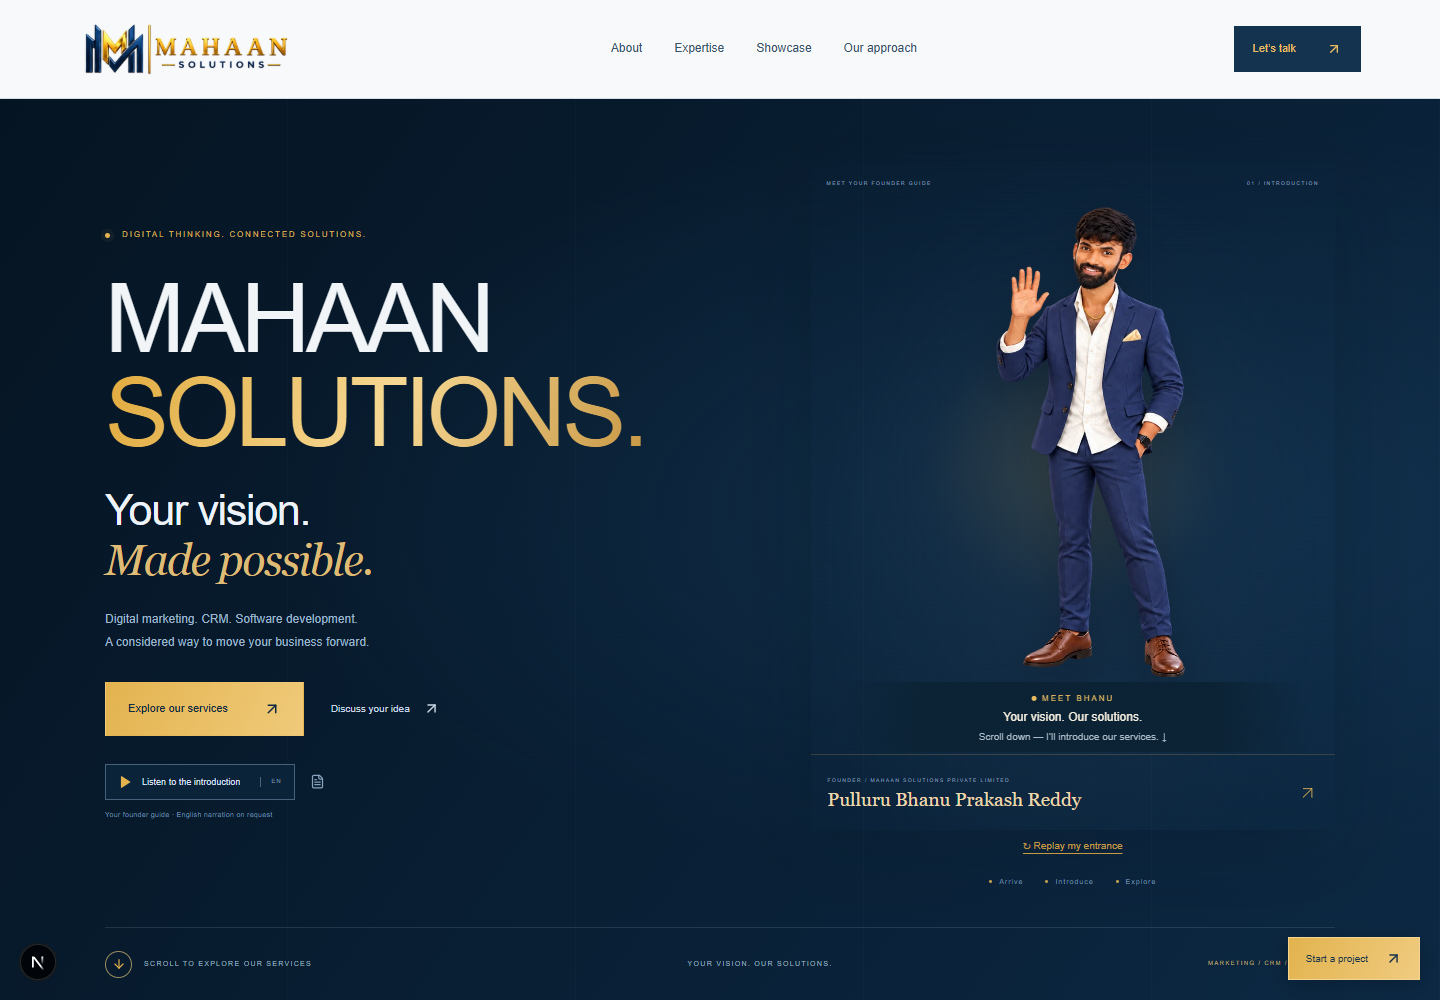
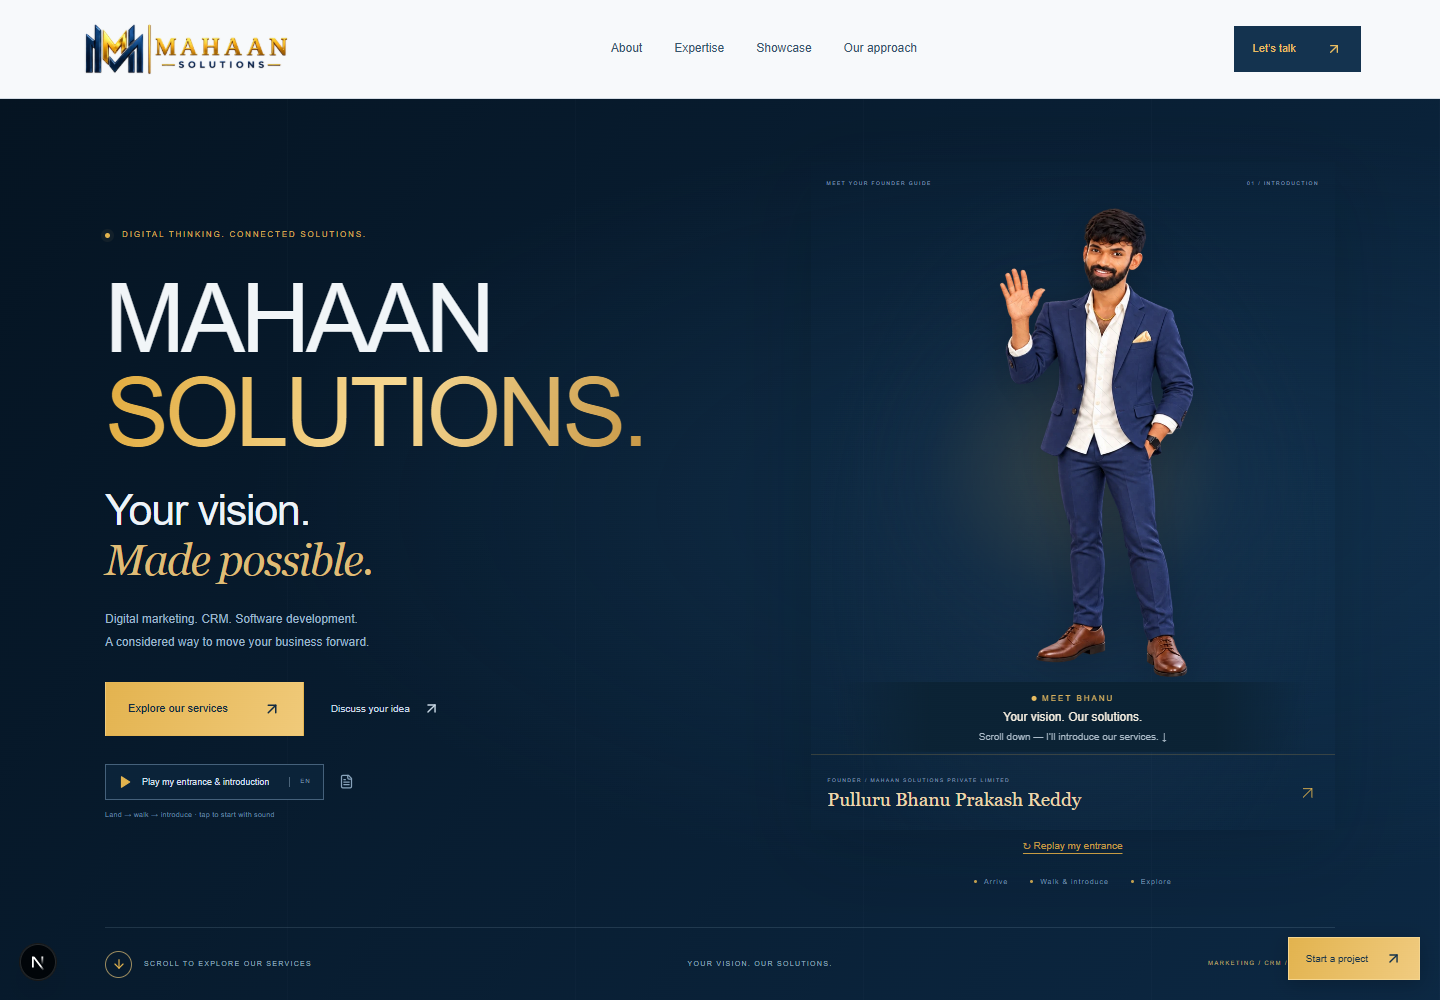
Update Site source

diff --git a/src/styles/brand-v3.css b/src/styles/brand-v3.css
@@ -15,3 +15,5 @@
 .founder-presenter{z-index:12;pointer-events:none;isolation:isolate}.presenter-arrival{position:absolute;inset:0;animation:presenter-arrive 1.25s cubic-bezier(.16,1,.3,1) both}.presenter-art{position:absolute;inset:0 0 54px;animation:presenter-breathe 6s ease-in-out infinite;transform-origin:50% 100%}.founder-presenter .presenter-pose{position:absolute;inset:0;width:100%;height:100%;object-fit:contain;object-position:center bottom;opacity:0;transform:translateY(7px) scale(.985);transition:opacity .45s,transform .7s;filter:drop-shadow(0 12px 22px #0005)}.founder-presenter .presenter-pose.is-active{opacity:1;transform:translateY(0) scale(1)}.presenter-aura{position:absolute;inset:8% 4% 12%;border-radius:50%;background:radial-gradient(ellipse,#b8862c24,transparent 65%);filter:blur(10px)}.presenter-shadow{position:absolute;left:22%;right:22%;height:12px;bottom:48px;background:#0007;filter:blur(9px);border-radius:50%}.presenter-caption{position:absolute;left:5%;right:5%;bottom:2px;text-align:center;padding:11px 10px 8px;background:linear-gradient(90deg,#0b223300,#0b2233ed 20%,#0b2233ed 80%,#0b223300);color:#f5eee0;font-size:12px;line-height:1.4}.presenter-status{display:flex;align-items:center;justify-content:center;gap:6px;color:#e7bb60;font-size:8px;letter-spacing:2px;margin-bottom:5px}.presenter-status i{width:5px;height:5px;background:#e7bb60;border-radius:50%}.presenter-caption small{display:block;color:#aabac7;font-size:10px;margin-top:4px}.is-speaking .presenter-status i{animation:presenter-pulse .75s infinite alternate}.presenter-replay{background:transparent;border:0;color:#d8a848;font:inherit;font-size:10px;padding:8px 0;cursor:pointer;text-decoration:underline;text-underline-offset:4px}.performance-slot{min-height:550px!important}.performance-frame{border:0!important;background:radial-gradient(ellipse at 50% 60%,#18304888,transparent 70%)}.performance-frame-top{border:0!important}.performance-identity{border-top:1px solid #d8a84835!important;background:transparent!important;padding-top:18px!important}.performance-slot .performance-floor,.performance-slot .performance-arch{display:none}.performance-beats{margin-top:14px}.solution-stage,.cartoon-service-anchor{height:410px;min-height:410px}.founder-presenter[data-scene="closing"] .presenter-caption{font-size:12px}.founder-presenter[data-motion="paused"] *{animation:none!important;transition:none!important}.founder-presenter[data-motion="paused"] .presenter-arrival{transform:none;opacity:1}.company-finale{overflow:hidden}@keyframes presenter-arrive{0%{opacity:0;transform:translate3d(50px,-65px,0) scale(.94)}60%{opacity:1;transform:translate3d(0,5px,0) scale(1.01)}100%{opacity:1;transform:none}}@keyframes presenter-breathe{0%,100%{transform:translateY(0) rotate(-.2deg)}50%{transform:translateY(-4px) rotate(.2deg)}}@keyframes presenter-pulse{to{box-shadow:0 0 0 5px #d8a84820}}@media(max-width:760px){.performance-slot{min-height:470px!important}.solution-stage,.cartoon-service-anchor{height:270px;min-height:270px}.presenter-caption{font-size:9px;padding:7px 2px}.presenter-caption small{font-size:8px}.presenter-status{font-size:6px;letter-spacing:1px}.presenter-art{bottom:50px}.cartoon-closing-anchor{height:460px}}@media(prefers-reduced-motion:reduce){.founder-presenter *{animation:none!important;transition:none!important}}
 .founder-presenter .presenter-pose{mask-image:linear-gradient(to right,transparent,#000 8%,#000 92%,transparent),linear-gradient(to bottom,transparent,#000 5%,#000 93%,transparent);mask-composite:intersect;border-radius:42% 42% 8% 8%}.presenter-shadow{display:none}.presenter-aura{background:radial-gradient(ellipse,#c89b4130,#18304830 45%,transparent 70%)}
 .founder-presenter .founder-puppet{width:100%;height:100%;object-fit:contain;object-position:center bottom;display:block;filter:drop-shadow(0 12px 22px #0003)}.presenter-art{animation:none!important}.presenter-arrival{animation:puppet-land 1.6s cubic-bezier(.2,.75,.25,1) both}@keyframes puppet-land{0%{opacity:0;transform:translate(80px,-180px) rotate(-6deg) scale(.85)}55%{opacity:1;transform:translate(0,12px) rotate(1deg) scale(1.03,.96)}75%{transform:translate(0,-8px) scale(.99,1.02)}100%{opacity:1;transform:none}}
+/* Home performance: land on the left, cross the stage, then settle for the introduction. */
+.founder-presenter[data-scene="intro"] .presenter-arrival{animation:founder-cross-stage 5.2s linear both}.founder-presenter:not([data-scene="intro"]) .presenter-arrival{animation:none}@keyframes founder-cross-stage{0%{opacity:0;transform:translate(-95px,-170px) scale(.92)}14%{opacity:1;transform:translate(-95px,12px) scale(1.03,.96)}21%{transform:translate(-95px,0) scale(1)}28%{transform:translate(-78px,-4px)}35%{transform:translate(-60px,0)}42%{transform:translate(-43px,-4px)}49%{transform:translate(-25px,0)}56%{transform:translate(-8px,-4px)}63%{transform:translate(10px,0)}70%{transform:translate(27px,-4px)}77%{transform:translate(45px,0)}84%{transform:translate(55px,-3px)}92%,100%{opacity:1;transform:translate(60px,0)}}@media(max-width:760px){@keyframes founder-cross-stage{0%{opacity:0;transform:translate(-45px,-120px) scale(.92)}14%{opacity:1;transform:translate(-45px,9px) scale(1.02,.97)}21%{transform:translate(-45px,0)}35%{transform:translate(-30px,-3px)}49%{transform:translate(-12px,0)}63%{transform:translate(5px,-3px)}77%{transform:translate(20px,0)}92%,100%{opacity:1;transform:translate(28px,0)}}}@media(prefers-reduced-motion:reduce){.founder-presenter[data-scene="intro"] .presenter-arrival{animation:none!important;transform:none}}

diff --git a/src/components/HomeHero.tsx b/src/components/HomeHero.tsx
@@ -2,4 +2,4 @@
 import {ArrowUpRight,ArrowDown,Play} from 'lucide-react';
 import {founderScenes} from '@/data/founder-scenes';
 import {NarrationButton} from './FounderVoice';
-export default function HomeHero(){return <section className="hero home-hero" id="home"><div className="home-hero-grid"/><div className="home-hero-copy"><div className="eyebrow"><span className="live-dot"/> DIGITAL THINKING. CONNECTED SOLUTIONS.</div><h1>MAHAAN<br/><span>SOLUTIONS.</span></h1><p className="home-hero-statement">Your vision.<br/><em>Made possible.</em></p><p className="home-hero-description">Digital marketing. CRM. Software development.<br/>A considered way to move your business forward.</p><div className="home-hero-actions"><a className="button button-gold" href="#expertise">Explore our services <ArrowUpRight size={18}/></a><a href="#contact" className="home-secondary-cta">Discuss your idea <ArrowUpRight size={17}/></a></div><div className="hero-founder-control"><NarrationButton scene="intro" label={founderScenes.intro.video?'Play introduction with sound':'Listen to the introduction'}/><span>Your founder guide · English narration on request</span></div></div><div className="home-hero-visual"><div className="performance-frame"><div className="performance-frame-top"><span>MEET YOUR FOUNDER GUIDE</span><span>01 / INTRODUCTION</span></div><div className="performance-slot" data-performance-mode="cartoon" data-avatar-anchor data-avatar-scene="intro"><div className="performance-floor"/><div className="performance-arch"/></div><div className="performance-identity"><div><small>FOUNDER / MAHAAN SOLUTIONS PRIVATE LIMITED</small><strong>Pulluru Bhanu Prakash Reddy</strong></div><ArrowUpRight size={24}/></div></div><button className="presenter-replay" onClick={()=>window.dispatchEvent(new Event('founder:replay'))}>↻ Replay my entrance</button><div className="performance-beats"><span><i/> Arrive</span><span><i/> Introduce</span><span><i/> Explore</span></div></div><div className="home-hero-baseline"><a href="#expertise"><span><ArrowDown size={14}/></span> SCROLL TO EXPLORE OUR SERVICES</a><span>YOUR VISION. OUR SOLUTIONS.</span><span>MARKETING / CRM / SOFTWARE</span></div></section>}
+export default function HomeHero(){return <section className="hero home-hero" id="home"><div className="home-hero-grid"/><div className="home-hero-copy"><div className="eyebrow"><span className="live-dot"/> DIGITAL THINKING. CONNECTED SOLUTIONS.</div><h1>MAHAAN<br/><span>SOLUTIONS.</span></h1><p className="home-hero-statement">Your vision.<br/><em>Made possible.</em></p><p className="home-hero-description">Digital marketing. CRM. Software development.<br/>A considered way to move your business forward.</p><div className="home-hero-actions"><a className="button button-gold" href="#expertise">Explore our services <ArrowUpRight size={18}/></a><a href="#contact" className="home-secondary-cta">Discuss your idea <ArrowUpRight size={17}/></a></div><div className="hero-founder-control"><NarrationButton scene="intro" label={'Play my entrance & introduction'}/><span>Land → walk → introduce · tap to start with sound</span></div></div><div className="home-hero-visual"><div className="performance-frame"><div className="performance-frame-top"><span>MEET YOUR FOUNDER GUIDE</span><span>01 / INTRODUCTION</span></div><div className="performance-slot" data-performance-mode="cartoon" data-avatar-anchor data-avatar-scene="intro"><div className="performance-floor"/><div className="performance-arch"/></div><div className="performance-identity"><div><small>FOUNDER / MAHAAN SOLUTIONS PRIVATE LIMITED</small><strong>Pulluru Bhanu Prakash Reddy</strong></div><ArrowUpRight size={24}/></div></div><button className="presenter-replay" onClick={()=>window.dispatchEvent(new Event('founder:replay'))}>↻ Replay my entrance</button><div className="performance-beats"><span><i/> Arrive</span><span><i/> Walk & introduce</span><span><i/> Explore</span></div></div><div className="home-hero-baseline"><a href="#expertise"><span><ArrowDown size={14}/></span> SCROLL TO EXPLORE OUR SERVICES</a><span>YOUR VISION. OUR SOLUTIONS.</span><span>MARKETING / CRM / SOFTWARE</span></div></section>}

diff --git a/src/components/FounderPuppet.tsx b/src/components/FounderPuppet.tsx
@@ -15,12 +15,13 @@ export default function FounderPuppet({pose,speaking}:{pose:string;speaking:bool
   else {const w=smooth(pose==='present'?290:300,pose==='present'?410:390,p.x)*(1-smooth(360,460,p.y))*smooth(170,250,p.y);y+=Math.sin(t*2.2)*13*w;x+=Math.cos(t*2.2)*5*w;}
   // Breathing and gentle weight shifts, stronger than page-level image bobbing.
   x+=Math.sin(t*.9)*4*smooth(960,150,p.y);y-=Math.sin(t*1.8)*3*(1-smooth(400,700,p.y));
+  if(pose==='welcome'&&t>1.1&&t<4.8){const leg=smooth(510,850,p.y),side=p.x<330?1:-1,step=Math.sin((t-1.1)*10)*side;const ease=Math.min(1,(t-1.1)*4,(4.8-t)*4);x+=step*14*leg*ease;y-=Math.max(0,step)*12*leg*ease;}
   return{x,y};
  }
  function triangle(a:Point,b:Point,c:Point,aa:Point,bb:Point,cc:Point){if(!ctx)return;const det=a.x*(b.y-c.y)+b.x*(c.y-a.y)+c.x*(a.y-b.y);if(!det)return;const A=(aa.x*(b.y-c.y)+bb.x*(c.y-a.y)+cc.x*(a.y-b.y))/det,B=(aa.y*(b.y-c.y)+bb.y*(c.y-a.y)+cc.y*(a.y-b.y))/det,C=(aa.x*(c.x-b.x)+bb.x*(a.x-c.x)+cc.x*(b.x-a.x))/det,D=(aa.y*(c.x-b.x)+bb.y*(a.x-c.x)+cc.y*(b.x-a.x))/det,E=(aa.x*(b.x*c.y-c.x*b.y)+bb.x*(c.x*a.y-a.x*c.y)+cc.x*(a.x*b.y-b.x*a.y))/det,F=(aa.y*(b.x*c.y-c.x*b.y)+bb.y*(c.x*a.y-a.x*c.y)+cc.y*(a.x*b.y-b.x*a.y))/det;
   ctx.save();ctx.beginPath();const center={x:(aa.x+bb.x+cc.x)/3,y:(aa.y+bb.y+cc.y)/3};for(const [i,p]of [aa,bb,cc].entries()){const dx=p.x-center.x,dy=p.y-center.y,len=Math.hypot(dx,dy)||1;const x=p.x+dx/len*.5,y=p.y+dy/len*.5;if(i===0)ctx.moveTo(x,y);else ctx.lineTo(x,y)}ctx.closePath();ctx.clip();ctx.setTransform(A,B,C,D,E,F);ctx.drawImage(img,0,0,width,height);ctx.restore();
  }
- const render=(now:number)=>{frame=requestAnimationFrame(render);if(now-last<40||!ready)return;const delta=Math.min((now-last)/1000,.08);last=now;const host=el.closest<HTMLElement>('.founder-presenter');if(host?.style.visibility==='hidden')return;const paused=host?.dataset.motion==='paused'||matchMedia('(prefers-reduced-motion:reduce)').matches;if(!paused)elapsed+=delta;const t=paused?0:elapsed;ctx.clearRect(0,0,width,height);
+ const render=(now:number)=>{frame=requestAnimationFrame(render);if(now-last<40||!ready)return;const delta=Math.min((now-last)/1000,.08);last=now;const host=el.closest<HTMLElement>('.founder-presenter');if(host?.style.visibility==='hidden')return;const paused=host?.dataset.motion==='paused'||matchMedia('(prefers-reduced-motion:reduce)').matches;if(!paused)elapsed+=delta;const t=paused?0:elapsed;if(host&&pose==='welcome')host.dataset.entrancePhase=paused?'ready':t<1.1?'landing':t<4.8?'walking':'introducing';ctx.clearRect(0,0,width,height);
   if(paused){ctx.drawImage(img,0,0,width,height);el.dataset.frame='paused';return}
   const pts:Point[][]=[];for(let j=0;j<=rows;j++){pts[j]=[];for(let i=0;i<=columns;i++)pts[j][i]=map({x:i*width/columns,y:j*height/rows},t)}
   for(let j=0;j<rows;j++)for(let i=0;i<columns;i++){const a={x:i*width/columns,y:j*height/rows},b={x:(i+1)*width/columns,y:j*height/rows},c={x:(i+1)*width/columns,y:(j+1)*height/rows},d={x:i*width/columns,y:(j+1)*height/rows};triangle(a,b,c,pts[j][i],pts[j][i+1],pts[j+1][i+1]);triangle(a,c,d,pts[j][i],pts[j+1][i+1],pts[j+1][i])}

diff --git a/src/components/FounderVoice.tsx b/src/components/FounderVoice.tsx
@@ -12,7 +12,7 @@ export function FounderVoiceProvider({children}:{children:ReactNode}){
  const stop=useCallback(()=>{cancel();setEnabled(false);lastScene.current=null;setMessage('')},[cancel]);
  const registerVideo=useCallback((id:FounderScene,video:HTMLVideoElement|null)=>{if(video)players.current.set(id,video);else players.current.delete(id)},[]);
  useEffect(()=>{setSupported('speechSynthesis' in window||Object.values(founderScenes).some(s=>!!s.video));const onVisibility=()=>{if(document.hidden)stop()};document.addEventListener('visibilitychange',onVisibility);return()=>{document.removeEventListener('visibilitychange',onVisibility);if('speechSynthesis' in window)window.speechSynthesis.cancel();players.current.forEach(v=>v.pause())}},[stop]);
- const play=useCallback((id:FounderScene)=>{lastScene.current=null;setScene(id);setEnabled(true);setMessage('');setRevision(v=>v+1)},[]);
+ const play=useCallback((id:FounderScene)=>{lastScene.current=null;setScene(id);setEnabled(true);setMessage('');if(id==='intro')window.dispatchEvent(new Event('founder:replay'));setRevision(v=>v+1)},[]);
  const selectScene=useCallback((id:FounderScene)=>setScene(id),[]);
  useEffect(()=>{if(!enabled||lastScene.current===scene)return;cancel();lastScene.current=scene;const token=generation.current;
    const timer=window.setTimeout(()=>{
@@ -23,7 +23,7 @@ export function FounderVoiceProvider({children}:{children:ReactNode}){
     const voices=window.speechSynthesis.getVoices();utterance.voice=voices.find(v=>v.lang==='en-IN')||voices.find(v=>v.lang.startsWith('en-GB'))||voices.find(v=>v.lang.startsWith('en'))||null;
     utterance.onstart=()=>{if(token===generation.current)setPlaying(true)};utterance.onend=()=>{if(token===generation.current)setPlaying(false)};utterance.onerror=e=>{if(token===generation.current&&e.error!=='canceled'&&e.error!=='interrupted'){setPlaying(false);setMessage('Voice playback could not start. You can read the transcript.');setEnabled(false)}};
     window.speechSynthesis.speak(utterance);
-   },160);return()=>{clearTimeout(timer);cancel()};
+   },scene==='intro'&&!matchMedia('(prefers-reduced-motion:reduce)').matches?1200:160);return()=>{clearTimeout(timer);cancel()};
  },[enabled,scene,cancel,revision]);
  return <Voice.Provider value={{scene,enabled,playing,supported,message,selectScene,play,stop,markEnded:()=>setPlaying(false),registerVideo}}>{children}{enabled&&<aside className="voice-tour-dock" aria-label="Voice tour controls"><div className={`voice-wave ${playing?'is-speaking':''}`} aria-hidden="true">{[0,1,2,3,4].map(i=><i key={i}/>)}</div><div><small>ENGLISH VOICE TOUR</small><strong>{founderScenes[scene].title}</strong></div><button onClick={()=>play(scene)} aria-label="Replay current narration"><RotateCcw size={15}/></button><button onClick={stop} aria-label="Stop voice tour"><X size={18}/></button></aside>}</Voice.Provider>
 }

diff --git a/docs/CARTOON-FOUNDER.md b/docs/CARTOON-FOUNDER.md
@@ -19,3 +19,9 @@ FounderPuppet.tsx now renders a textured triangle mesh from the likeness artwork
 This is a local 2D mesh puppet, not a fully modeled 3D body. Mouth motion is stylized and playback-driven, not phoneme-accurate lip sync. The original artwork is retained and animated at runtime.
 
 scripts/puppet-qa.cjs compares actual canvas pixels across frames, checks narration-to-mouth state, service scenes, frozen pixels on pause, reduced motion, and mobile overflow. Browser narration is stubbed in this test to make playback-state testing deterministic. docs/founder-motion-demo.webm records the live canvas, showing actual motion. The earlier scripts/cartoon-qa.cjs checks the superseded still-pose version; use puppet-qa.cjs for the current renderer.
+
+## Homepage landing, crossing and speech
+
+The introduction button now replays a 5.2-second entrance: land at the left (0–1.1 seconds), cross the stage with alternating leg movement (1.1–4.8 seconds), then settle at the right. Optional English browser speech begins 1.2 seconds after the button press, following landing and during the crossing. It does not autoplay audio on first load. Reduced-motion skips the crossing and plays speech without the entrance delay.
+
+scripts/entrance-qa.cjs verifies delayed speech, walking state, increasing horizontal position, settled introduction and reduced motion. Existing puppet checks cover rendered-frame changes, speech state, services, pause and mobile overflow. Mouth motion remains stylized rather than phoneme-accurate.
